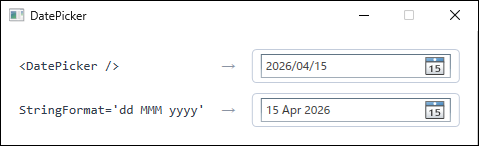
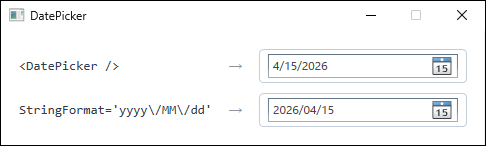
CodeRabbit のレビュー指摘に対応
記事:

- LINQ .NET 10: Shuffle を「実行ごとに結果が変わる」と断定せず、
  「順序をランダム化する」に改める
- バインディングエラー: 探索対象は DataItem であり、DataContext とは限らない
  （Source / RelativeSource / ElementName 指定時は別）ことを表に明記する
- StringFormat: ConverterCulture 未指定時に en-US になるのは、ターゲット要素の
  Language（xml:lang）が未設定で既定値が使われる場合に限ることを明記する
- DataGrid ソート解除: 元のコレクション順に戻るのは単一列ソートの場合に限る
- DatePicker: 図が直前の XAML（yyyy/MM/dd）と食い違っていたため、
  xml:lang=en-US を与えて既定表示と差が出る形でキャプチャを撮り直す
- Fluent デザイン: 図に CheckBox と TextBox があり掲載 XAML から再現できなかったため、
  記事の XAML と同じ構成（見出し・説明文・ボタン）でキャプチャを撮り直す。
  あわせて概要の文が連結していた箇所を修正する
- Label と TextBlock: visual 数を既定テーマ・文字列 Content の条件に限定し、
  アクセスキーを含む場合は AccessText が挟まって 5 個になることを追記する
- ObservableCollection: EnableCollectionSynchronization と Dispatcher は仕組みが
  異なるため、図を 3 段に分けて役割を書き分ける
- トレイの ContextMenu: SetForegroundWindow は常に成功するとは限らない旨を補う

スクリプト・ルール・ツール:

- generate_sitemap.py: プロトコル相対の // を サイト相対パスとして扱わない
- テンプレート: image のプレースホルダーを既定でコメントアウトする
- guidelines / review-checklist: 主張が再現しない場合は図を省略せず本文を直すこと、
  図は直前のコードから再現できること、実測値には条件を併記することを追加する
- Capture.cs: Loaded 待ちに 30 秒のタイムアウトを設け、ハングでバッチが止まらないようにする
- DemoLayout: 3 つの Build*Window に重複していた Window 生成を CreateWindow に集約し、
  2 シーンで重複していた矢印の生成を DemoLayout.Arrow に切り出す

diff --git a/tools/screenshot-capture/DemoLayout.cs b/tools/screenshot-capture/DemoLayout.cs
@@ -27,6 +27,31 @@ internal static class DemoLayout
     private static readonly Brush CellFill = new SolidColorBrush(Color.FromRgb(0xF5, 0xF7, 0xFB));
 
     /// <summary>
+    /// 図のウィンドウを作る。撮影条件（サイズ・背景・リサイズ可否）を 1 箇所に集約する。
+    /// </summary>
+    private static Window CreateWindow(string title, UIElement content) => new()
+    {
+        Title = title,
+        Content = content,
+        SizeToContent = SizeToContent.WidthAndHeight,
+        ResizeMode = ResizeMode.CanMinimize,
+        WindowStartupLocation = WindowStartupLocation.CenterScreen,
+        Background = Brushes.White,
+    };
+
+    /// <summary>
+    /// 「入力 → 結果」を示す矢印。図をまたいで同じ見た目にするため、ここで一元管理する。
+    /// </summary>
+    public static TextBlock Arrow(Thickness margin) => new()
+    {
+        Text = "→",
+        FontSize = 15,
+        Foreground = ArrowBrush,
+        VerticalAlignment = VerticalAlignment.Center,
+        Margin = margin,
+    };
+
+    /// <summary>
     /// 「式 → 評価結果の並び」を縦に並べたウィンドウを作る。
     /// 結果は実際にメソッドを実行して得た値をそのまま描画する。
     /// </summary>
@@ -89,15 +114,7 @@ internal static class DemoLayout
             index++;
         }
 
-        return new Window
-        {
-            Title = title,
-            Content = grid,
-            SizeToContent = SizeToContent.WidthAndHeight,
-            ResizeMode = ResizeMode.CanMinimize,
-            WindowStartupLocation = WindowStartupLocation.CenterScreen,
-            Background = Brushes.White,
-        };
+        return CreateWindow(title, grid);
     }
 
     /// <summary>
@@ -139,15 +156,7 @@ internal static class DemoLayout
             first = false;
         }
 
-        return new Window
-        {
-            Title = title,
-            Content = stack,
-            SizeToContent = SizeToContent.WidthAndHeight,
-            ResizeMode = ResizeMode.CanMinimize,
-            WindowStartupLocation = WindowStartupLocation.CenterScreen,
-            Background = Brushes.White,
-        };
+        return CreateWindow(title, stack);
     }
 
     /// <summary>
@@ -178,14 +187,7 @@ internal static class DemoLayout
             Grid.SetColumn(markup, 0);
             grid.Children.Add(markup);
 
-            var arrow = new TextBlock
-            {
-                Text = "→",
-                FontSize = 15,
-                Foreground = ArrowBrush,
-                VerticalAlignment = VerticalAlignment.Center,
-                Margin = new Thickness(16, index == 0 ? 0 : 10, 16, 0),
-            };
+            TextBlock arrow = Arrow(new Thickness(16, index == 0 ? 0 : 10, 16, 0));
             Grid.SetRow(arrow, index);
             Grid.SetColumn(arrow, 1);
             grid.Children.Add(arrow);
@@ -209,14 +211,6 @@ internal static class DemoLayout
             index++;
         }
 
-        return new Window
-        {
-            Title = title,
-            Content = grid,
-            SizeToContent = SizeToContent.WidthAndHeight,
-            ResizeMode = ResizeMode.CanMinimize,
-            WindowStartupLocation = WindowStartupLocation.CenterScreen,
-            Background = Brushes.White,
-        };
+        return CreateWindow(title, grid);
     }
 }

diff --git a/tools/screenshot-capture/Scenes/FluentSystemColorsScene.cs b/tools/screenshot-capture/Scenes/FluentSystemColorsScene.cs
@@ -24,8 +24,8 @@ internal sealed class FluentSystemColorsScene : IScene
         var window = new Window
         {
             Title = fluent ? "Fluent + SystemColors" : "Default theme",
-            Width = 340,
-            Height = 300,
+            Width = 440,
+            Height = 280,
             ResizeMode = ResizeMode.CanMinimize,
             WindowStartupLocation = WindowStartupLocation.CenterScreen,
         };
@@ -45,7 +45,7 @@ internal sealed class FluentSystemColorsScene : IScene
     }
 
     /// <summary>
-    /// 記事の「カード領域」に相当するレイアウト。
+    /// 記事の「実装例」に載せている XAML と同じカード構成（見出し・説明文・ボタン）。
     /// Fluent 側だけ SystemColors 由来の配色と角丸を与える。
     /// </summary>
     private static UIElement BuildCard(bool fluent)
@@ -53,30 +53,30 @@ internal sealed class FluentSystemColorsScene : IScene
         var content = new StackPanel();
         content.Children.Add(new TextBlock
         {
-            Text = "Order 1042",
-            FontSize = 16,
+            Text = "WPF Fluent Style",
+            FontSize = 20,
             FontWeight = FontWeights.SemiBold,
-            Margin = new Thickness(0, 0, 0, 12),
+            Foreground = SystemColors.ControlTextBrush,
         });
-        content.Children.Add(new TextBox { Text = "invoice" });
-        content.Children.Add(new CheckBox
+        content.Children.Add(new TextBlock
         {
-            Content = "Notify",
-            IsChecked = true,
-            Margin = new Thickness(0, 12, 0, 0),
+            Text = "SystemColors を参照することで、Windows の色設定に依存した色を利用できる。",
+            TextWrapping = TextWrapping.Wrap,
+            Foreground = SystemColors.GrayTextBrush,
+            Margin = new Thickness(0, 10, 0, 0),
         });
         content.Children.Add(new Button
         {
-            Content = "Save",
-            Padding = new Thickness(14, 6, 14, 6),
-            Margin = new Thickness(0, 14, 0, 0),
+            Content = "操作を実行",
+            Padding = new Thickness(14, 8, 14, 8),
+            Margin = new Thickness(0, 12, 0, 0),
             HorizontalAlignment = HorizontalAlignment.Left,
         });
 
         var card = new Border
         {
-            Padding = new Thickness(18),
-            Margin = new Thickness(16),
+            Padding = new Thickness(24),
+            Margin = new Thickness(32),
             Child = content,
         };
 

diff --git a/tools/screenshot-capture/Scenes/DatePickerFormatScene.cs b/tools/screenshot-capture/Scenes/DatePickerFormatScene.cs
@@ -8,24 +8,23 @@ namespace ScreenshotCapture.Scenes;
 /// </summary>
 internal sealed class DatePickerFormatScene : IScene
 {
-    /// <summary>既定の表示。記事の例に合わせて 2026-04-15 を選択済みにする。</summary>
+    // 既定表示はターゲット要素の Language（xml:lang）に従う。撮影マシンのロケール
+    // （日本語）のままだと既定表示も 2026/04/15 になり、記事が示す yyyy/MM/dd との
+    // 差が出ない。そこで両方に xml:lang="en-US" を与え、ロケールが異なる環境でも
+    // 表示が固定されることを示す。
     private const string DefaultXaml =
-        """<DatePicker SelectedDate="2026-04-15" Width="190" />""";
+        """<DatePicker xml:lang="en-US" SelectedDate="2026-04-15" Width="190" />""";
 
-    /// <summary>
-    /// 記事の「XAML スタイルによる方法」と同じ指定。
-    /// 既定表示は OS のロケールに従うため、撮影環境（日本語）でも差が分かるよう
-    /// 記事がレポート向けとして挙げている dd MMM yyyy を指定する。
-    /// </summary>
+    /// <summary>記事の「XAML スタイルによる方法」と同じ指定。</summary>
     private const string FormattedXaml =
         """
-        <DatePicker SelectedDate="2026-04-15" Width="190">
+        <DatePicker xml:lang="en-US" SelectedDate="2026-04-15" Width="190">
           <DatePicker.Resources>
             <Style TargetType="DatePickerTextBox">
               <Setter Property="Text"
                       Value="{Binding SelectedDate,
                                       RelativeSource={RelativeSource AncestorType=DatePicker},
-                                      StringFormat='dd MMM yyyy'}" />
+                                      StringFormat='yyyy\/MM\/dd'}" />
             </Style>
           </DatePicker.Resources>
         </DatePicker>
@@ -41,7 +40,7 @@ internal sealed class DatePickerFormatScene : IScene
                 "<DatePicker />",
                 SceneContext.LoadXaml<DatePicker>(DefaultXaml)),
             new DemoLayout.Row(
-                "StringFormat='dd MMM yyyy'",
+                "StringFormat='yyyy\\/MM\\/dd'",
                 SceneContext.LoadXaml<DatePicker>(FormattedXaml)),
         };
 

diff --git a/.github/scripts/generate_sitemap.py b/.github/scripts/generate_sitemap.py
@@ -114,7 +114,9 @@ def extract_images_from_file(abs_path: str) -> list:
     ![...](src) syntax in Markdown files. Articles wrap figures in
     <figure class="article-figure"><img ...></figure> so that a caption can be
     attached, so Markdown files must be scanned for both notations.
-    Only site-relative paths (starting with /) are included.
+    Only site-relative paths (starting with a single /) are included; a
+    protocol-relative "//host/..." reference points at another host, so
+    prefixing it with BASE_URL would produce a bogus URL.
     """
     if not os.path.isfile(abs_path):
         return []
@@ -124,16 +126,19 @@ def extract_images_from_file(abs_path: str) -> list:
     except OSError:
         return []
 
+    def is_site_relative(src: str) -> bool:
+        return src.startswith("/") and not src.startswith("//")
+
     images = []
     if abs_path.endswith(".md"):
         # Markdown image syntax: ![alt](path)
         for src in re.findall(r'!\[[^\]]*\]\(([^)]+)\)', content):
             src = src.strip().split()[0]  # strip optional title (e.g. "url title")
-            if src.startswith("/"):
+            if is_site_relative(src):
                 images.append(BASE_URL + src)
     # HTML <img src="..."> (also handles single quotes)
     for src in re.findall(r'<img\s[^>]*\bsrc=["\']([^"\']+)["\']', content, re.IGNORECASE):
-        if src.startswith("/"):
+        if is_site_relative(src):
             images.append(BASE_URL + src)
     # Deduplicate while preserving order
     seen = set()

diff --git a/tools/screenshot-capture/Capture.cs b/tools/screenshot-capture/Capture.cs
@@ -82,9 +82,17 @@ internal static class Capture
 
     private static int ToColorRef(byte r, byte g, byte b) => r | (g << 8) | (b << 16);
 
+    /// <summary>Loaded を待つ上限。これを超えたら中断する。</summary>
+    private static readonly TimeSpan LoadedTimeout = TimeSpan.FromSeconds(30);
+
     /// <summary>
     /// ウィンドウを表示し、レンダリングが落ち着くまで待ってから返す。
     /// </summary>
+    /// <exception cref="TimeoutException">
+    /// <see cref="FrameworkElement.Loaded"/> が <see cref="LoadedTimeout"/> 以内に発火しない場合。
+    /// デスクトップセッションが切断されているなど描画が行われない環境では発火しないため、
+    /// 待ち続けてバッチ全体が止まらないように打ち切る。
+    /// </exception>
     public static async Task ShowAndSettleAsync(Window window, int extraDelayMs = 400)
     {
         var loaded = new TaskCompletionSource();
@@ -94,7 +102,13 @@ internal static class Capture
         ApplyNeutralChrome(window);
         window.Activate();
 
-        await loaded.Task;
+        Task completed = await Task.WhenAny(loaded.Task, Task.Delay(LoadedTimeout));
+        if (completed != loaded.Task)
+        {
+            throw new TimeoutException(
+                $"ウィンドウ '{window.Title}' の Loaded が {LoadedTimeout.TotalSeconds} 秒以内に発火しなかった。");
+        }
+
         await SettleAsync(window, extraDelayMs);
     }
 

diff --git a/tools/screenshot-capture/Scenes/RelayCommandCanExecuteScene.cs b/tools/screenshot-capture/Scenes/RelayCommandCanExecuteScene.cs
@@ -49,14 +49,7 @@ internal sealed class RelayCommandCanExecuteScene : IScene
         var button = SceneContext.LoadXaml<Button>(
             """<Button Content="Save" Command="{Binding SaveCommand}" Padding="14,4" />""");
 
-        var arrow = new TextBlock
-        {
-            Text = "→",
-            FontSize = 15,
-            Foreground = new SolidColorBrush(Color.FromRgb(0x8A, 0x93, 0xA3)),
-            Margin = new Thickness(14, 0, 14, 0),
-            VerticalAlignment = VerticalAlignment.Center,
-        };
+        TextBlock arrow = DemoLayout.Arrow(new Thickness(14, 0, 14, 0));
 
         return new StackPanel
         {

diff --git a/tools/screenshot-capture/Scenes/UpdateSourceTriggerScene.cs b/tools/screenshot-capture/Scenes/UpdateSourceTriggerScene.cs
@@ -55,14 +55,7 @@ internal sealed class UpdateSourceTriggerScene : IScene
     {
         var textBox = SceneContext.LoadXaml<TextBox>(textBoxXaml);
 
-        var arrow = new TextBlock
-        {
-            Text = "→",
-            FontSize = 15,
-            Foreground = new SolidColorBrush(Color.FromRgb(0x8A, 0x93, 0xA3)),
-            Margin = new Thickness(14, 0, 14, 0),
-            VerticalAlignment = VerticalAlignment.Center,
-        };
+        TextBlock arrow = DemoLayout.Arrow(new Thickness(14, 0, 14, 0));
 
         var mirror = SceneContext.LoadXaml<Border>(
             """

diff --git a/_articles_en/wpf-fluent-design-with-systemcolors.md b/_articles_en/wpf-fluent-design-with-systemcolors.md
@@ -29,8 +29,8 @@ The default WPF theme is stable and predictable, but its visual density and spac
 In multi-window business applications, default control styles can make interaction priority less clear, especially when all elements have similar weight and low hierarchy contrast.  
 
 <figure class="article-figure">
-  <img src="/images/articles/wpf-fluent-design-with-systemcolors/fluent-default-theme.png" alt="A WPF window using the default theme. A square-cornered text box, a check box and a button are laid out with little spacing." width="326" height="293" loading="lazy">
-  <figcaption>The same controls under the default theme (Aero2). Corners are square and spacing is tight, which makes it hard to tell which element is the primary action.</figcaption>
+  <img src="/images/articles/wpf-fluent-design-with-systemcolors/fluent-default-theme.png" alt="A WPF window using the default theme. A heading, body text and a square-cornered button sit on the same surface as the window background." width="426" height="273" loading="lazy">
+  <figcaption>The same controls under the default theme (Aero2). The card surface is not separated from the background and the button corners are square, which makes it hard to tell which element is the primary action.</figcaption>
 </figure>
 
 ---
@@ -194,8 +194,8 @@ Because key brushes are resolved through `DynamicResource`, changes in Windows c
 `SystemColors.AccentColorBrushKey` can be used where accent emphasis is needed.  
 
 <figure class="article-figure">
-  <img src="/images/articles/wpf-fluent-design-with-systemcolors/fluent-systemcolors-card.png" alt="A WPF window with the Fluent theme and SystemColors applied. A rounded card holds a text box, a check box and a button with generous spacing." width="326" height="293" loading="lazy">
-  <figcaption>The same layout shown in the Problem section, now with the Fluent theme and <code>SystemColors</code> applied and no external libraries involved. The check box color follows the Windows accent setting, so it varies between machines.</figcaption>
+  <img src="/images/articles/wpf-fluent-design-with-systemcolors/fluent-systemcolors-card.png" alt="A WPF window with the Fluent theme and SystemColors applied. A rounded card holds a heading, body text and a rounded button with generous spacing." width="426" height="273" loading="lazy">
+  <figcaption>The same composition as the XAML above (heading, body text, button) with <code>ThemeMode</code> and <code>SystemColors</code> applied and no external libraries involved. Compared with the figure in the Problem section, the card surface separates from the background and the rounded corners and spacing establish a hierarchy.</figcaption>
 </figure>
 
 ---

diff --git a/_articles_ja/wpf-observablecollection-cross-thread-update.md b/_articles_ja/wpf-observablecollection-cross-thread-update.md
@@ -51,8 +51,8 @@ private async Task LoadAsync(string path)
 この通知が UI スレッド以外から届くため、`CollectionView` が例外を送出する。
 
 <figure class="article-figure article-figure--wide">
-  <img src="/images/articles/wpf-observablecollection-cross-thread-update/collectionview-thread-affinity.svg" alt="スレッド間のデータの流れを示す図。バックグラウンドスレッドからの CollectionChanged 通知が UI スレッドの CollectionView に直接届くと例外になり、同期を登録するか Dispatcher を経由すると更新が成立する。" width="900" height="372" loading="lazy">
-  <figcaption>例外が起きるのはコレクションを触った瞬間ではなく、変更通知が <code>CollectionView</code> に届いた時点である。上段は通知がバックグラウンドスレッドのまま届く場合、下段は同期の登録または <code>Dispatcher</code> により UI スレッドへ移してから届く場合を示す。</figcaption>
+  <img src="/images/articles/wpf-observablecollection-cross-thread-update/collectionview-thread-affinity.svg" alt="スレッド間のデータの流れを 3 段で比較した図。1 段目はバックグラウンドスレッドからの CollectionChanged 通知が CollectionView に直接届いて例外になる。2 段目は EnableCollectionSynchronization を登録した場合で、変更はバックグラウンドスレッドのまま行われ、通知はキューされて UI スレッドの shadow copy に非同期で反映される。3 段目は Dispatcher でコレクション操作自体を UI スレッドへ移す。" width="900" height="556" loading="lazy">
+  <figcaption>例外が起きるのはコレクションを触った瞬間ではなく、変更通知が <code>CollectionView</code> に届いた時点である。2 つの解決策は仕組みが異なる。<code>EnableCollectionSynchronization</code> はコレクションへのアクセスを同じ同期機構に参加させたうえで、<code>CollectionView</code> が持つ shadow copy へ通知を非同期に反映する（変更操作はバックグラウンドスレッドのままでよい）。<code>Dispatcher</code> はコレクション操作そのものを UI スレッドへマーシャリングする。</figcaption>
 </figure>
 
 ---

diff --git a/_articles_en/wpf-observablecollection-cross-thread-update.md b/_articles_en/wpf-observablecollection-cross-thread-update.md
@@ -51,8 +51,8 @@ When `Items` is bound to `ItemsControl.ItemsSource`, the `Add` call reaches the 
 Because that notification arrives from a non-UI thread, the `CollectionView` throws the exception.
 
 <figure class="article-figure article-figure--wide">
-  <img src="/images/articles/wpf-observablecollection-cross-thread-update/collectionview-thread-affinity.svg" alt="A diagram of the data flow between threads. A CollectionChanged notification arriving directly from a background thread at the UI thread's CollectionView raises an exception, while registering synchronization or going through the Dispatcher makes the update succeed." width="900" height="372" loading="lazy">
-  <figcaption>The exception is raised not when the collection is touched, but when the change notification reaches the <code>CollectionView</code>. The top lane shows the notification arriving while still on the background thread; the bottom lane shows it being moved onto the UI thread first, either by registering synchronization or through the <code>Dispatcher</code>.</figcaption>
+  <img src="/images/articles/wpf-observablecollection-cross-thread-update/collectionview-thread-affinity.svg" alt="A three-lane diagram of the data flow between threads. The first lane shows a CollectionChanged notification arriving directly at the CollectionView from a background thread and raising an exception. The second shows EnableCollectionSynchronization: the change stays on the background thread while the notification is queued and applied asynchronously to the UI thread's shadow copy. The third shows the Dispatcher moving the collection operation itself onto the UI thread." width="900" height="556" loading="lazy">
+  <figcaption>The exception is raised not when the collection is touched, but when the change notification reaches the <code>CollectionView</code>. The two fixes work differently. <code>EnableCollectionSynchronization</code> makes the <code>CollectionView</code> participate in the same synchronization mechanism and applies queued notifications asynchronously to the shadow copy it keeps for the UI thread — the mutation itself may stay on the background thread. The <code>Dispatcher</code> instead marshals the collection operation onto the UI thread.</figcaption>
 </figure>
 
 ---
